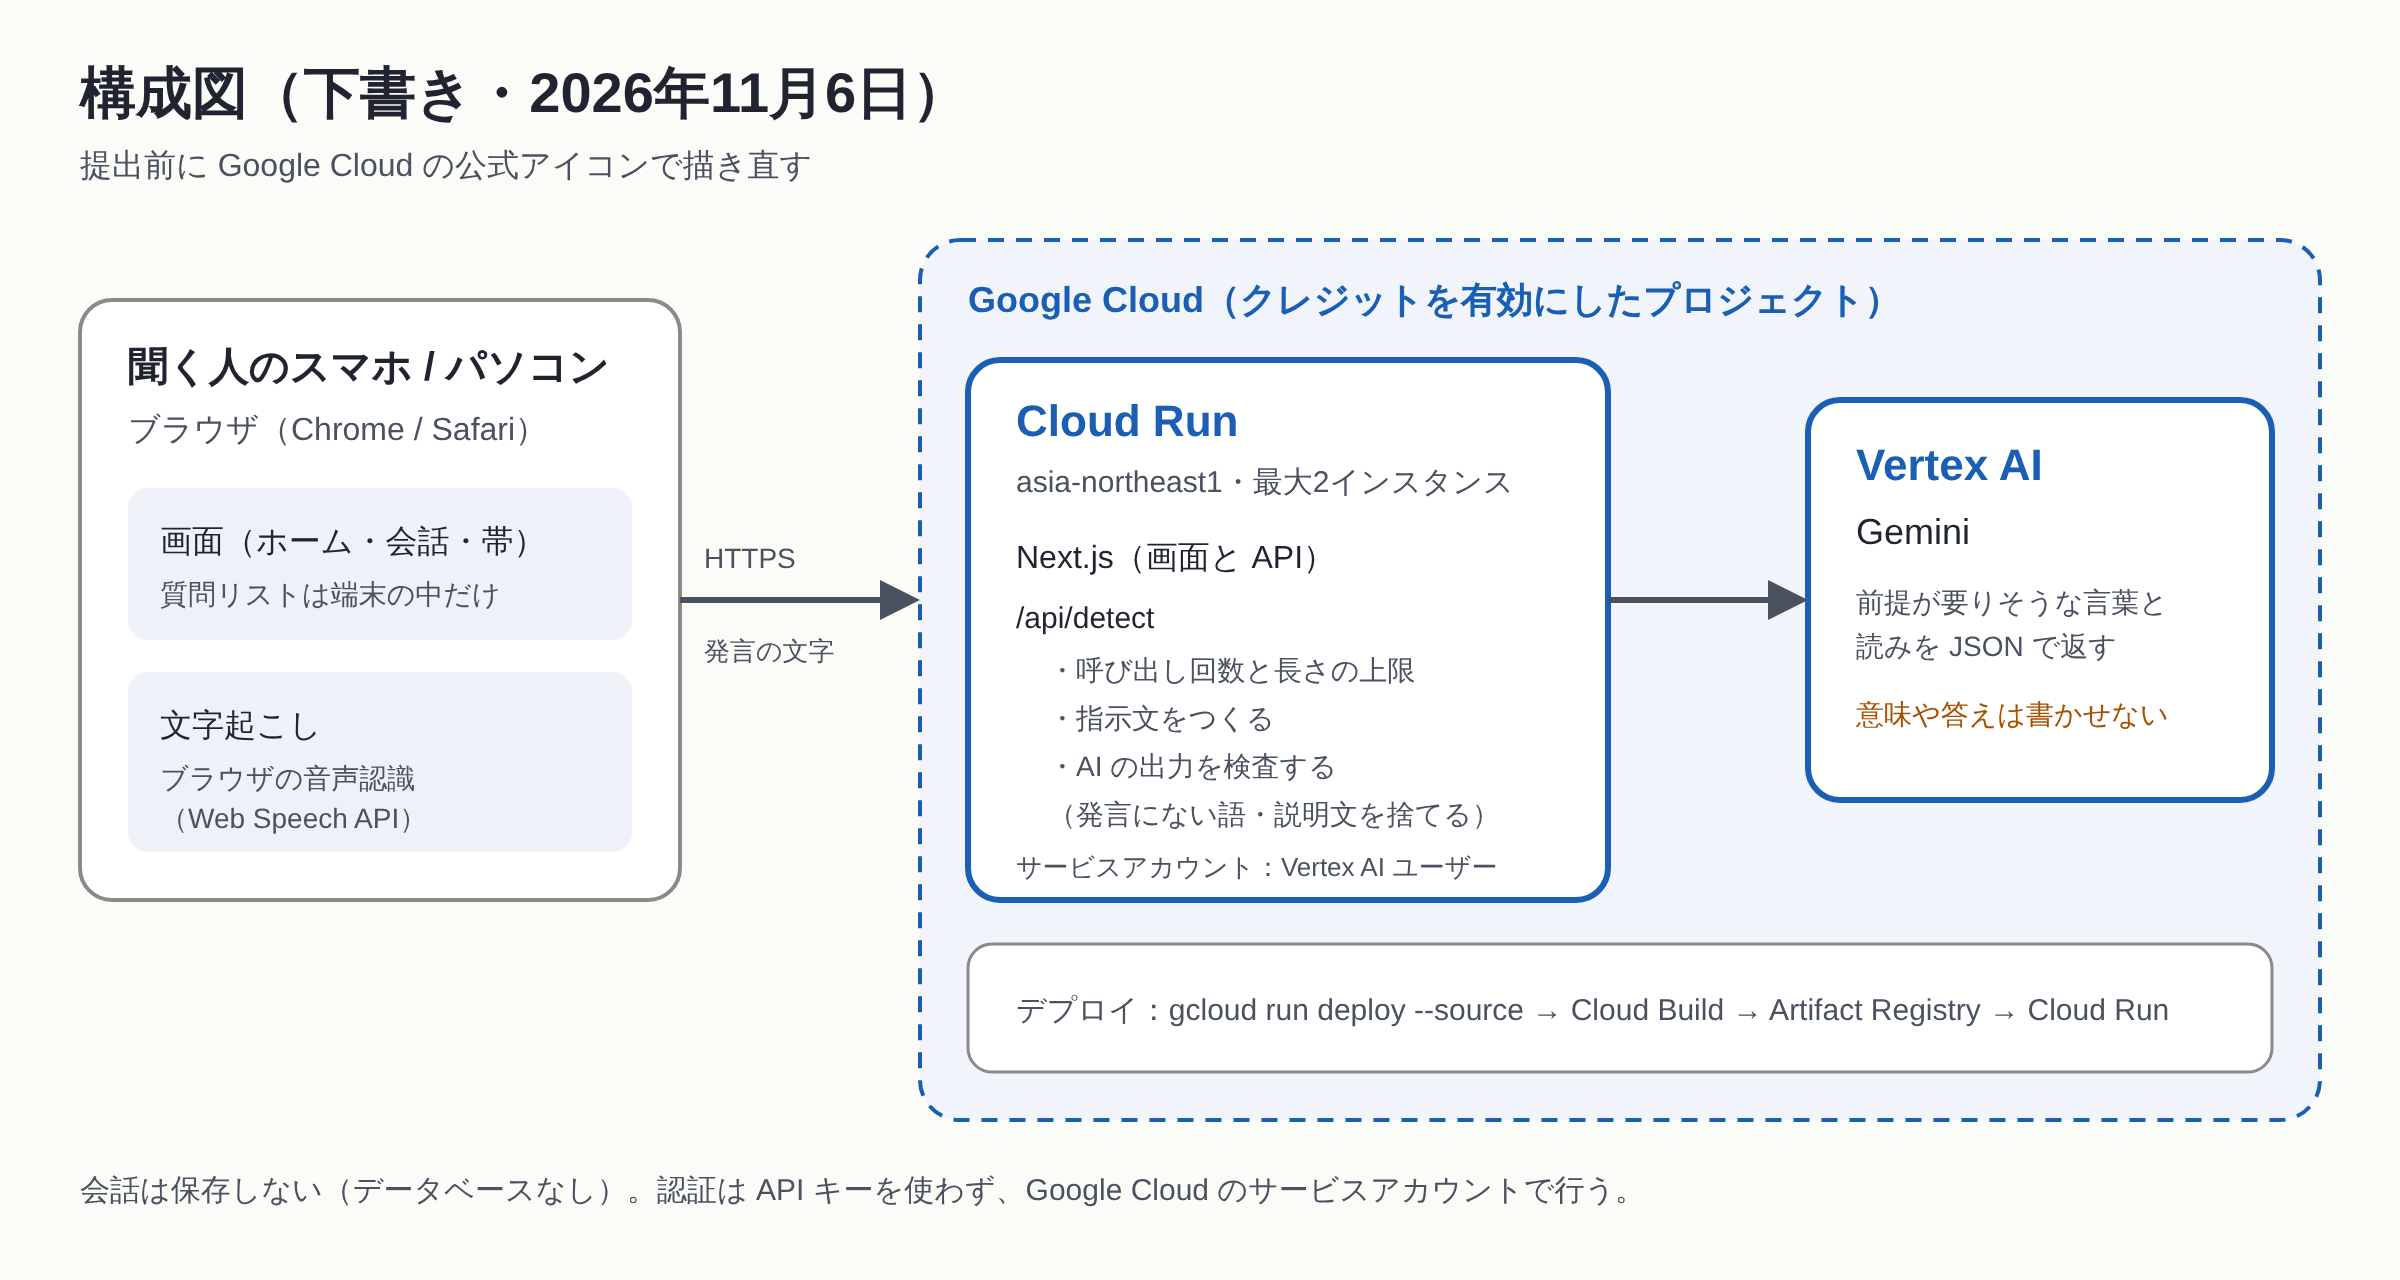
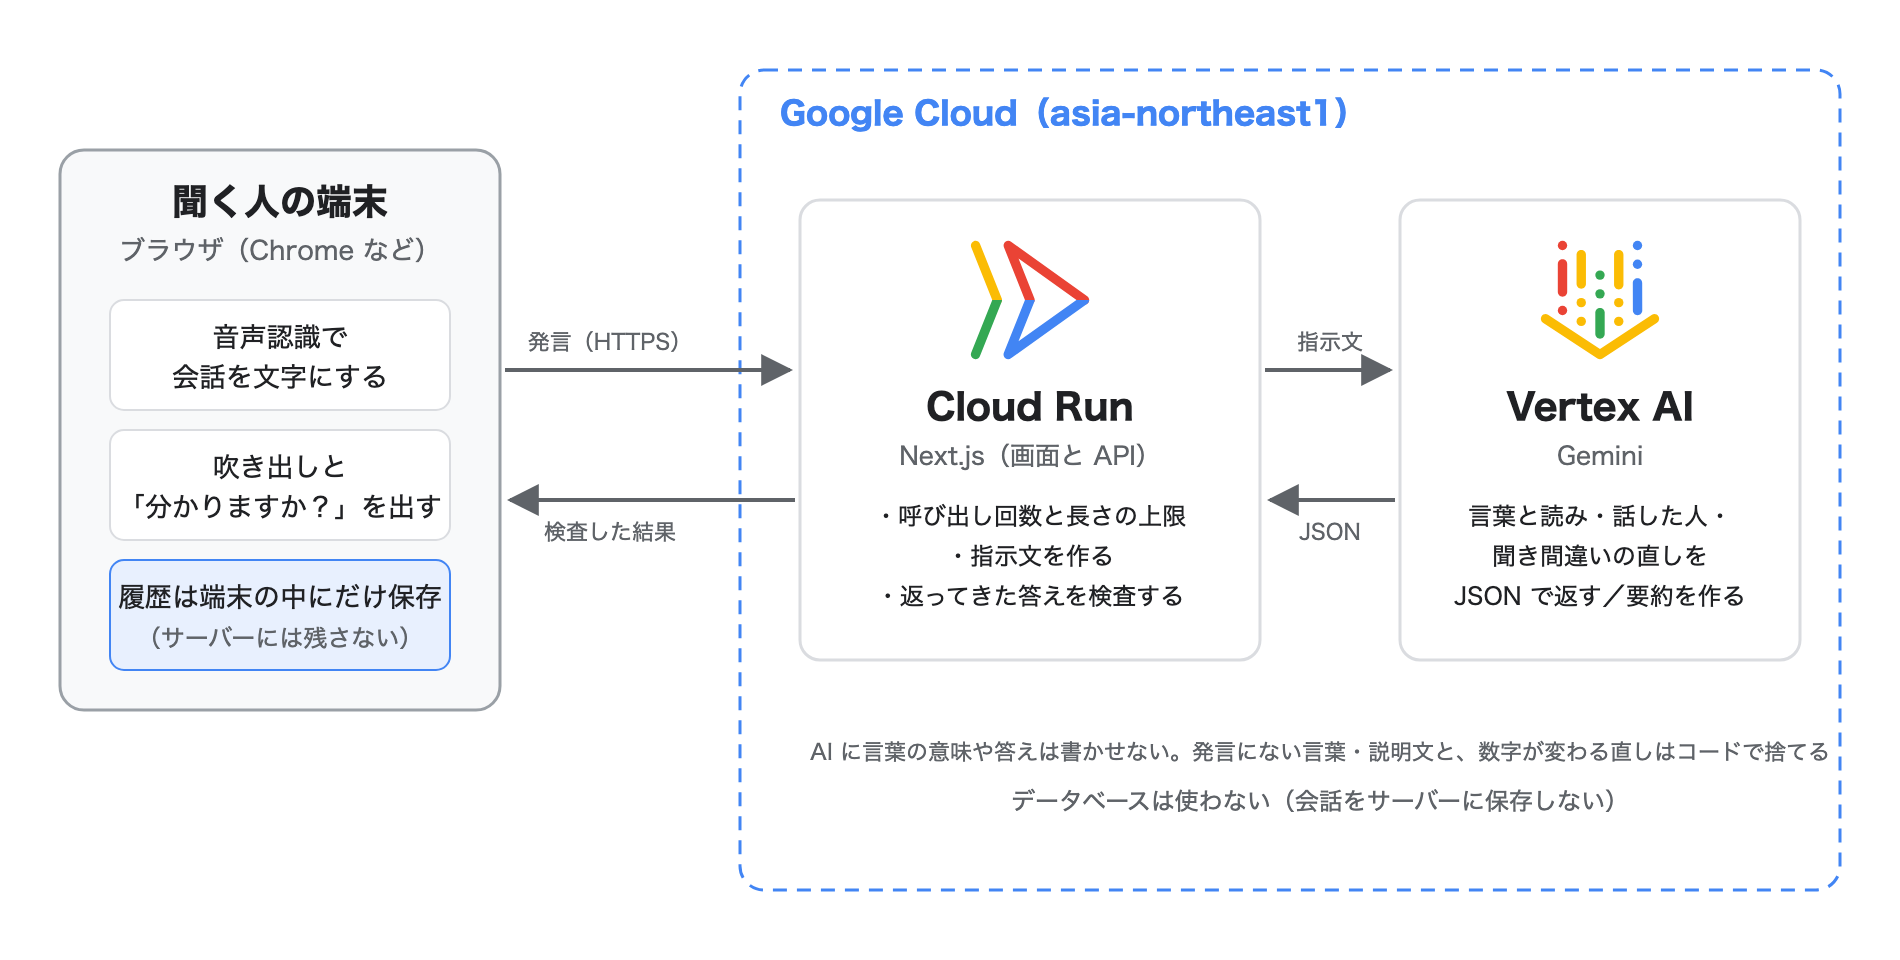
構成図を Google Cloud の公式アイコンで描き直す

diff --git a/例/Docs/11_プロダクト説明（下書き）.md b/例/Docs/11_プロダクト説明（下書き）.md
@@ -94,7 +94,7 @@
 
 ## 4. アーキテクチャ図
 
-下書き：`例/Docs/構成図.svg`。**提出前に Google Cloud の公式アイコンで描き直す。**
+`例/Docs/構成図.png`（元は `構成図.svg`）。2026年11月9日に Google Cloud の公式アイコン（cloud.google.com/icons の Cloud Run と Vertex AI）で描き直し、提出用ドキュメントに入れた。
 
 流れ：
 
